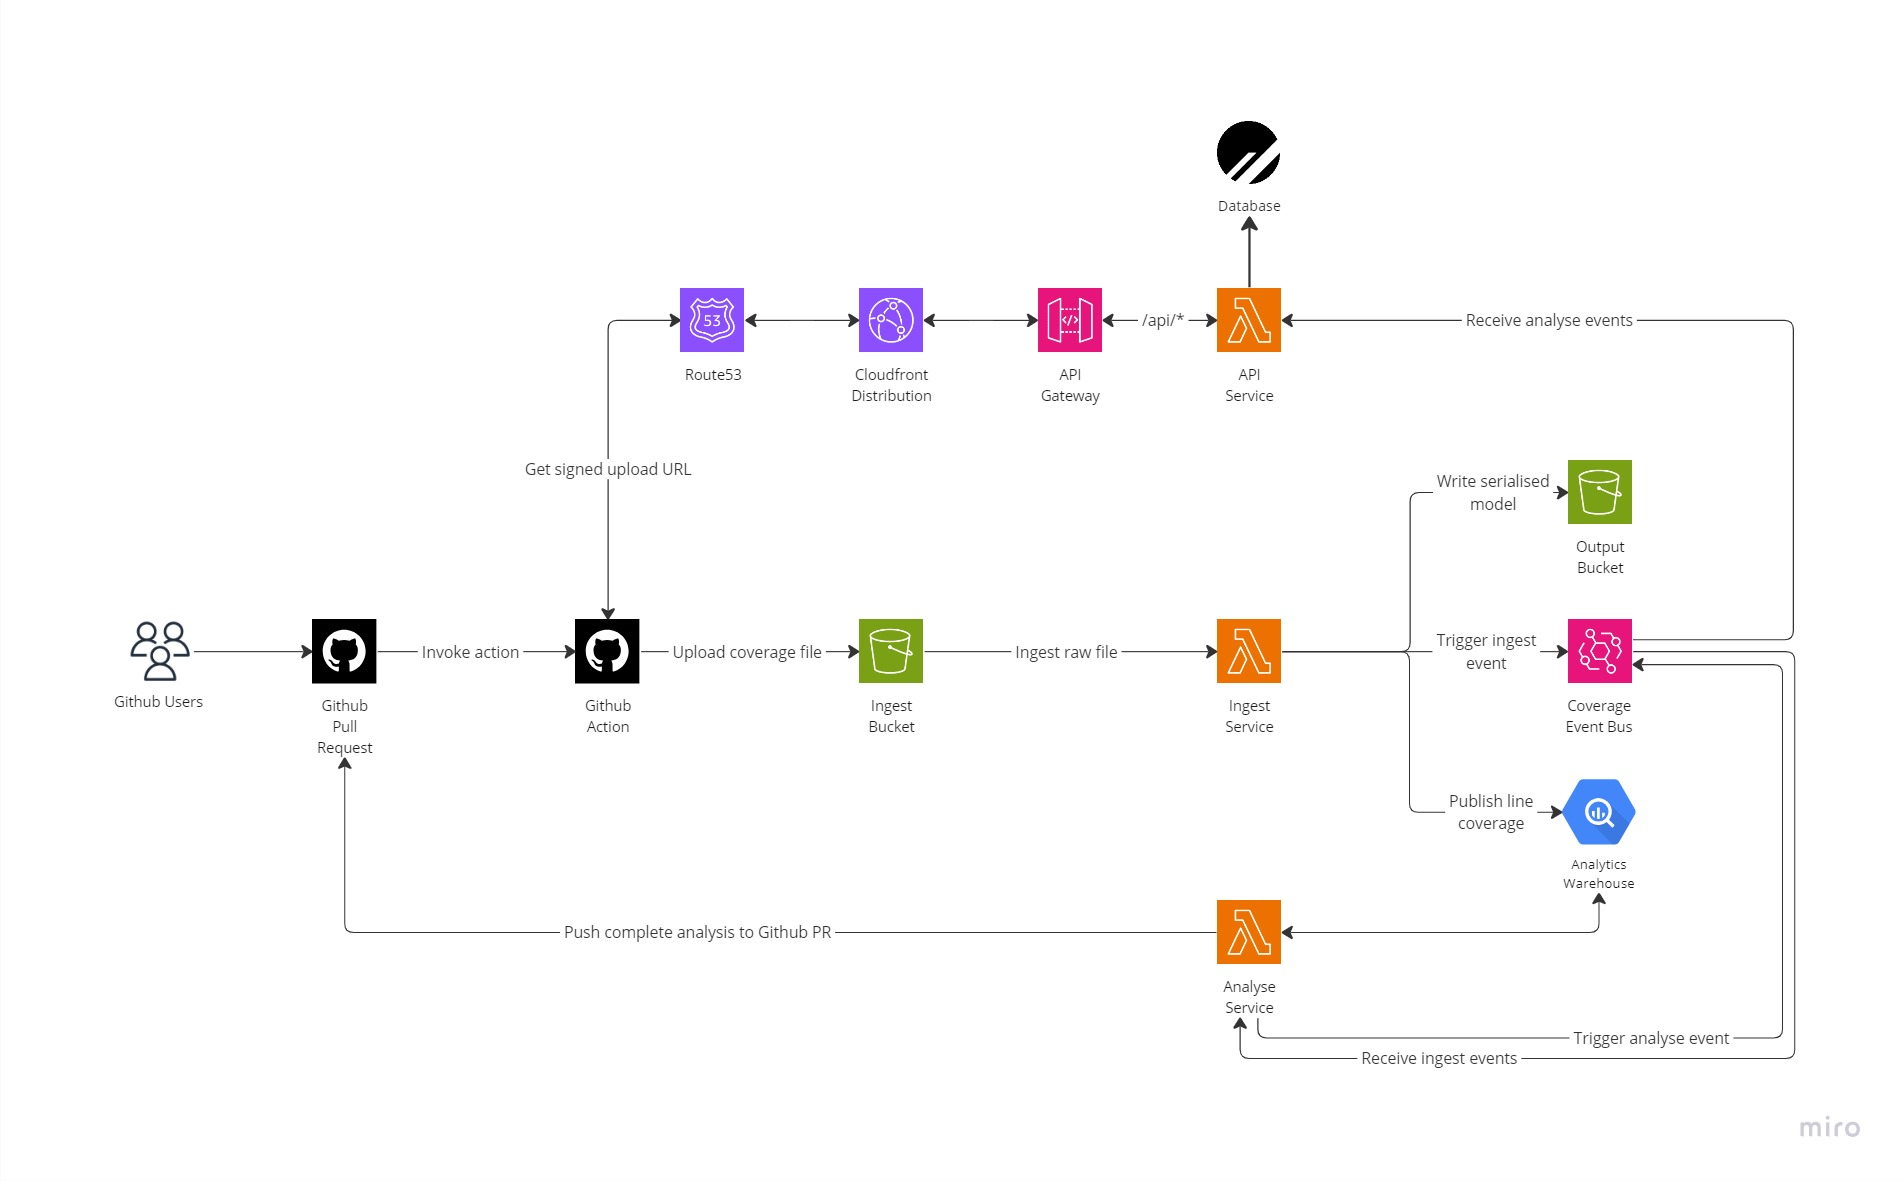
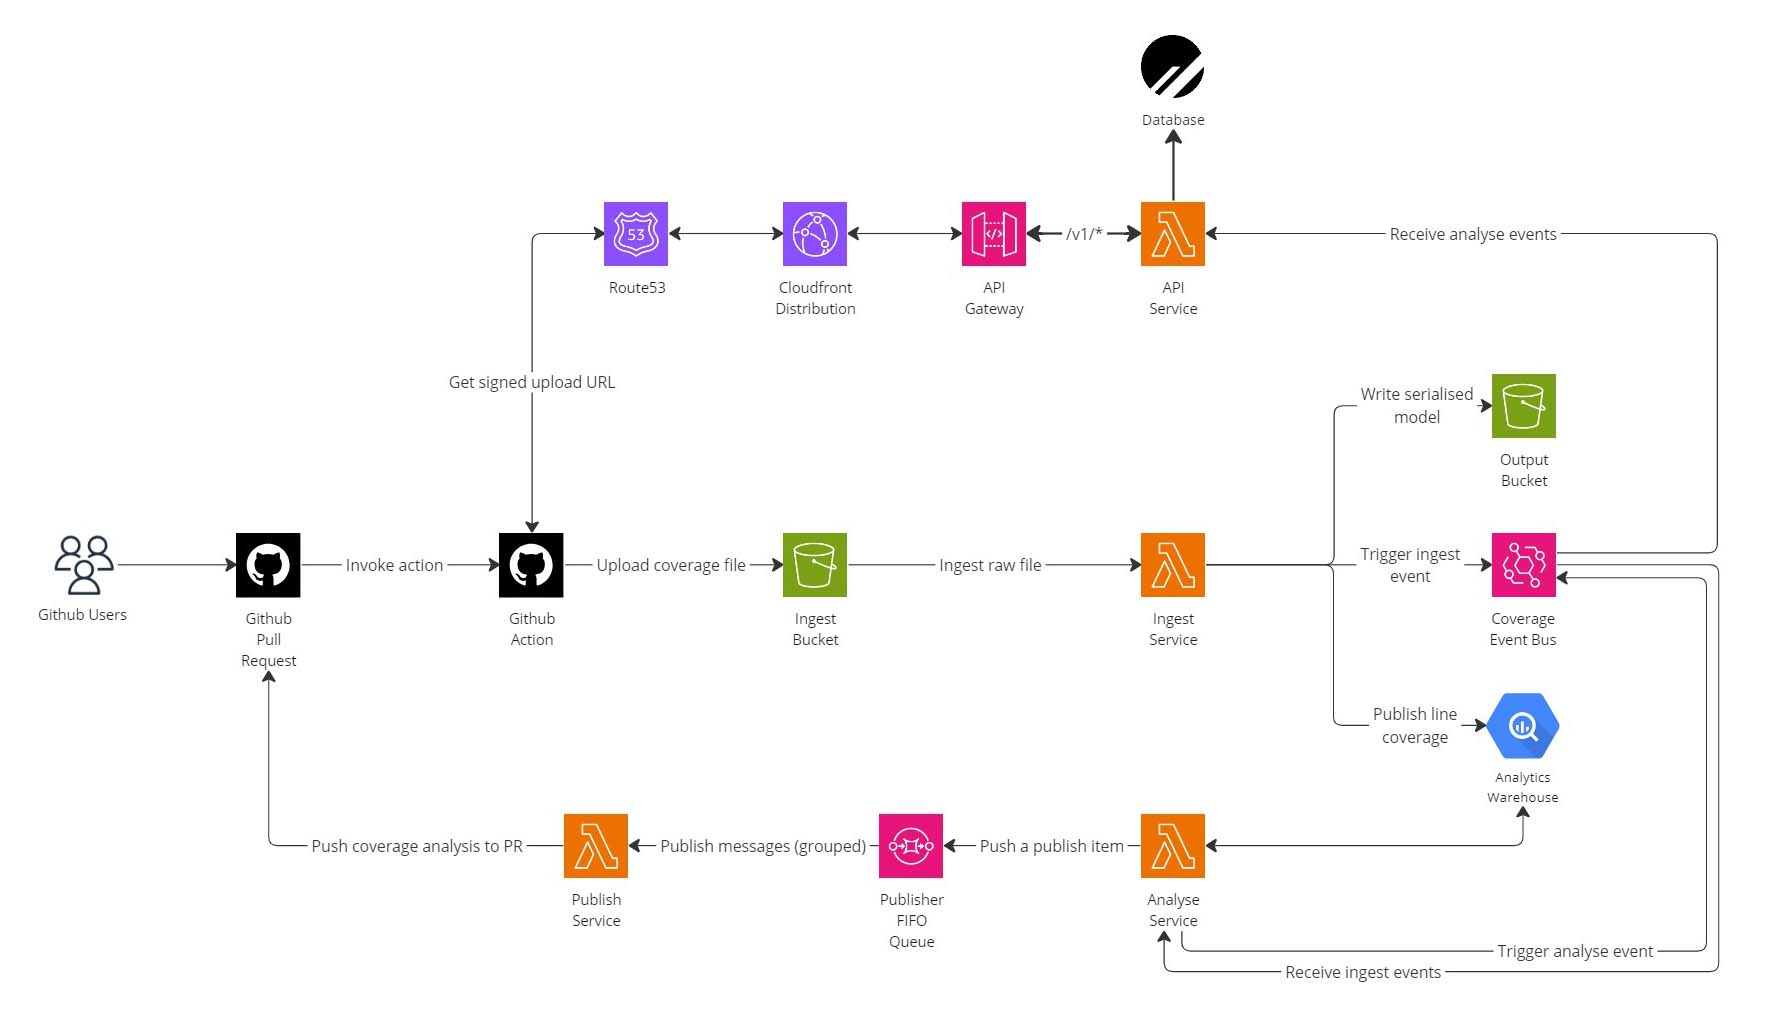
Update documentation

diff --git a/services/publish/src/Command/InvokeCommand.php b/services/publish/src/Command/InvokeCommand.php
@@ -40,21 +40,21 @@ class InvokeCommand extends Command
 
     protected function configure(): void
     {
-        $this->addArgument('commit', InputArgument::REQUIRED, 'The commit to analyse')
+        $this->addArgument('commit', InputArgument::REQUIRED, 'The commit to publish messages to')
             ->addArgument('pullRequest', InputArgument::REQUIRED, 'The pull request the commit belongs to')
             ->addArgument('repository', InputArgument::REQUIRED, 'The repository the commit belongs to')
             ->addArgument('owner', InputArgument::REQUIRED, 'The owner of the repository')
             ->addArgument(
                 'tag',
                 InputArgument::OPTIONAL,
-                'The tag of the coverage file which is being analysed',
+                'The tag of the coverage file which is being published for',
                 'mock-tag'
             )
-            ->addArgument('ref', InputArgument::OPTIONAL, 'The ref of the commit to analyse', 'mock-ref')
+            ->addArgument('ref', InputArgument::OPTIONAL, 'The ref of the commit being published to', 'mock-ref')
             ->addArgument(
                 'parent',
                 InputArgument::OPTIONAL,
-                'The parent of the commit to analyse',
+                'The parent of the commit being published to',
                 '["mock-parent-commit"]'
             );
     }

diff --git a/services/publish/README.md b/services/publish/README.md
@@ -1,21 +1,21 @@
-# Ingest
+# Publish
 
-The Ingest service handles all of the ingestion portion of the pipeline, and is responsible for taking the files,
-divining the coverage format, and storing the results in the warehouse, S3, and event bus.
+The Publish service handles publishing information (known as messages) to third-party platforms, like GitHub, off the
+back of queue items published by other services - such as PR results from the Analyse service.
 
 ## Deployment
 
 Deployment is handled through Terraform, and is deployed as part of the CI/CD pipeline.
 
-For the deployment of Ingest service, see the [`infrastructure/`](./infrastructure) folder.
+For the deployment of the Publish service, see the [`infrastructure/`](./infrastructure) folder.
 
 ## Local Development
 
 All of the local containers are managed in the project root's [`docker-compose.yml`](../../docker-compose.yml), but to
-invoke ingestion you
-can use the provided Makefile commands, using a Docker container.
+invoke the publishing of messages, like PR comments, you can use the provided Makefile commands, using a Docker
+container.
 
-### Invoke Ingestion
+### Publishing Messages
 
 Perform a PUT request to push the file into S3 locally:
 
